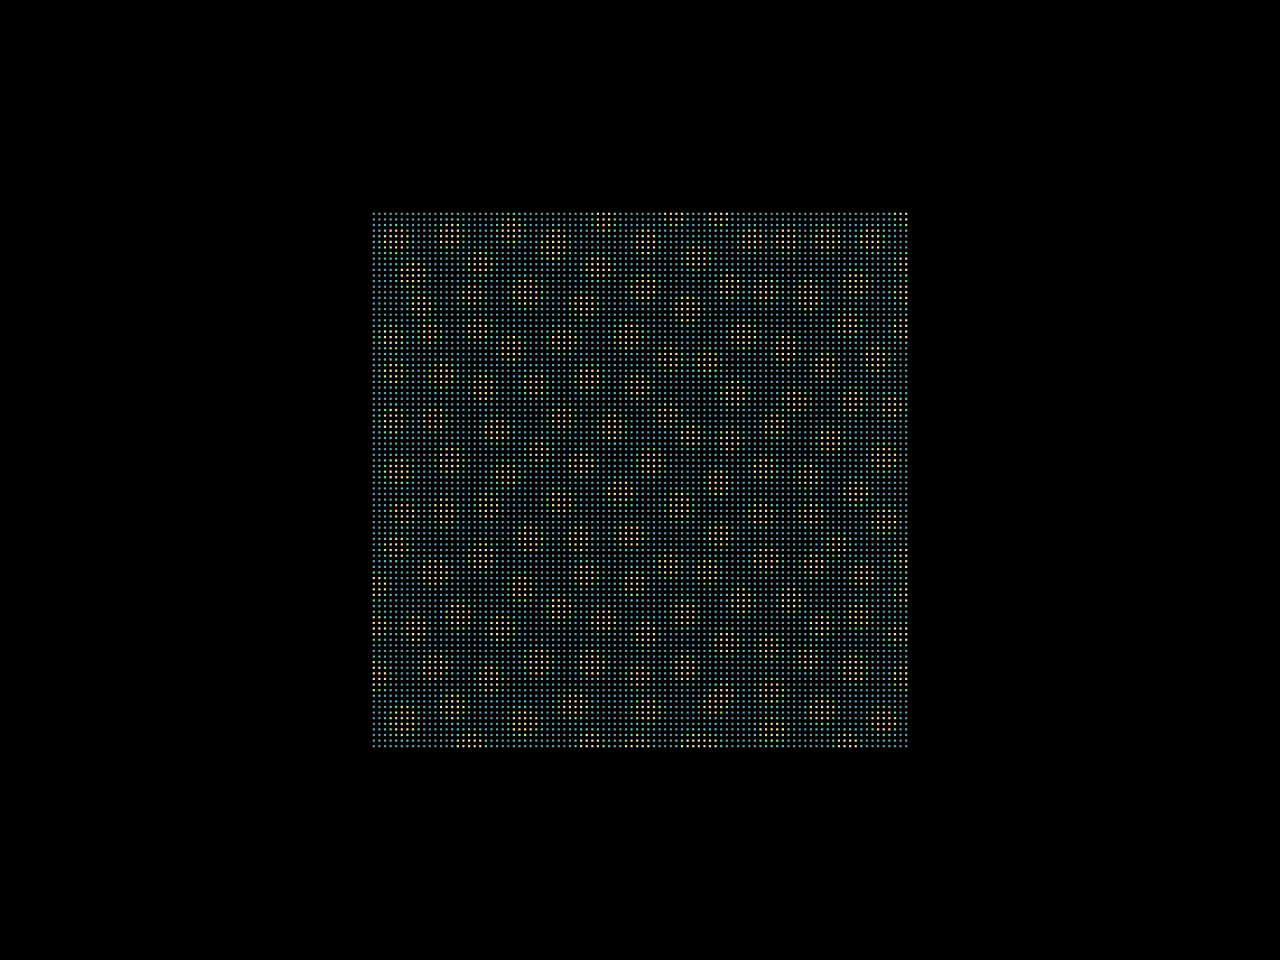
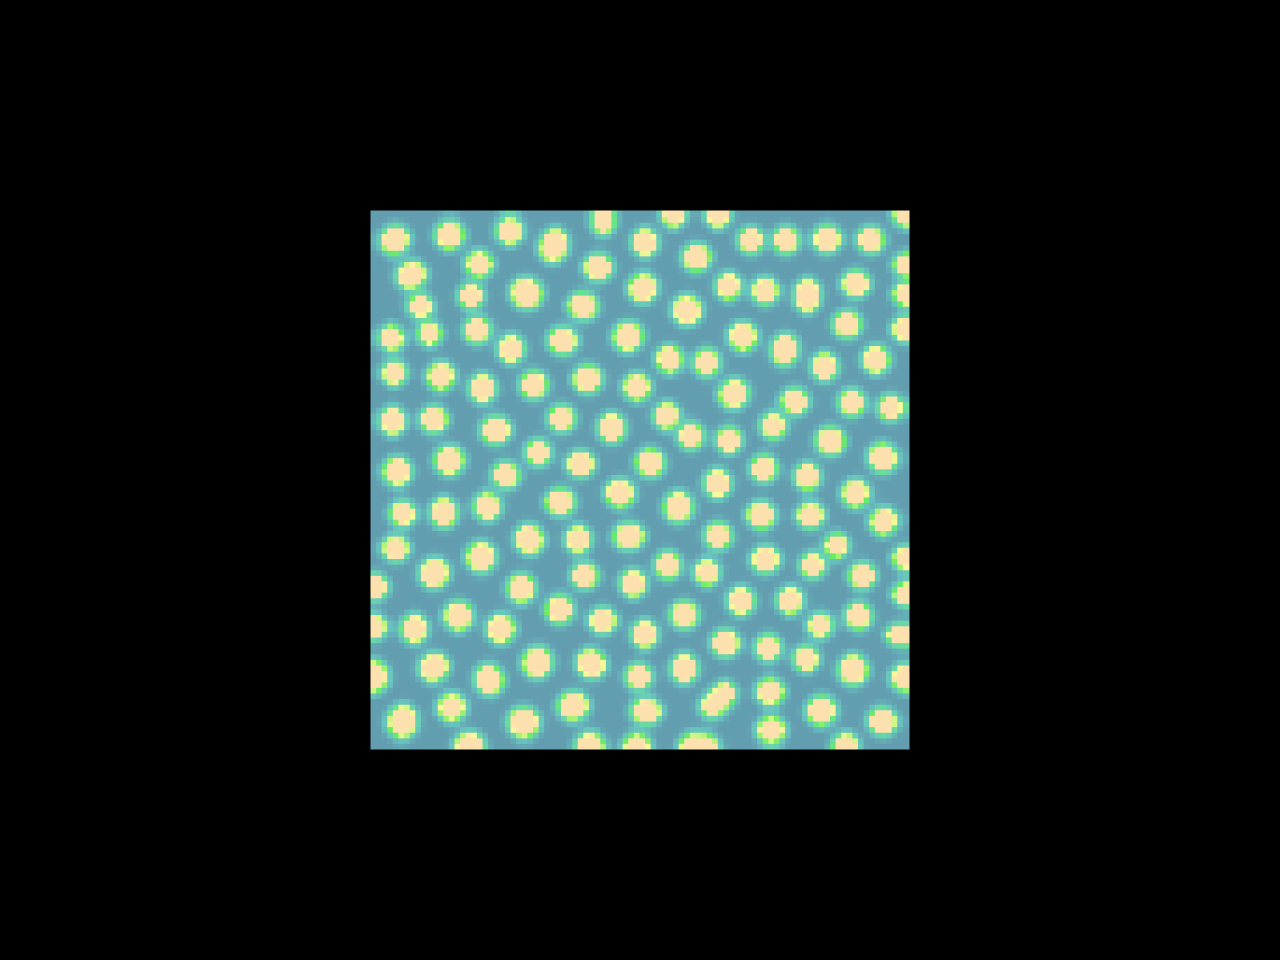
Fix brusselator RD: keep n on param tweak, denser field.

Changed region(s): [[0.2812, 0.2188, 0.7188, 0.7812]]

diff --git a/packages/frontend/src/pages/misc/brusselator_rd.tsx b/packages/frontend/src/pages/misc/brusselator_rd.tsx
@@ -39,7 +39,8 @@ const BrusselatorRd = () => {
 	const fieldRef = useRef<BrusselatorRdField | null>(null)
 	const stepsRef = useRef(0)
 	const lastManualRef = useRef<number | null>(null)
-	const paramKeyRef = useRef('')
+	const simKeyRef = useRef('')
+	const gridKeyRef = useRef(0)
 	const laidOutRef = useRef(false)
 	const wasCompleteRef = useRef(false)
 
@@ -89,11 +90,11 @@ const BrusselatorRd = () => {
 		[a, b, du, dv, dt],
 	)
 
+	/** Reseed only on grid change / force — tweaking a/b/Du/Dv/dt keeps n and the field. */
 	const ensureField = (force = false): BrusselatorRdField => {
-		const key = `${grid}|${a}|${b}|${du}|${dv}|${dt}`
-		if (force || !fieldRef.current || paramKeyRef.current !== key) {
+		if (force || !fieldRef.current || gridKeyRef.current !== grid) {
 			fieldRef.current = seedBrusselatorRd(grid, a, b)
-			paramKeyRef.current = key
+			gridKeyRef.current = grid
 			stepsRef.current = 0
 			laidOutRef.current = false
 			lastManualRef.current = null
@@ -129,12 +130,14 @@ const BrusselatorRd = () => {
 
 		if (manualProgress !== null) {
 			const want = Math.max(0, Math.min(target, Math.floor(manualProgress)))
-			if (lastManualRef.current !== want) {
+			const simKey = `${a}|${b}|${du}|${dv}|${dt}`
+			if (lastManualRef.current !== want || simKeyRef.current !== simKey) {
 				fieldRef.current = seedBrusselatorRd(grid, a, b)
 				const fresh = fieldRef.current
 				runBrusselatorRdSteps(fresh, params, want)
 				stepsRef.current = want
 				lastManualRef.current = want
+				simKeyRef.current = simKey
 				laidOutRef.current = false
 				fillGridPositions(positions, fresh.size, 1)
 				laidOutRef.current = true
@@ -167,11 +170,15 @@ const BrusselatorRd = () => {
 		return numParticles
 	}
 
+	// World-space points sized to cell pitch (slight overlap) so the field reads solid, not a dotted grid.
+	const cellPitch = 2 / Math.max(grid - 1, 1)
+	const pointSize = cellPitch * 1.55
+
 	return (
 		<Base<TData>
 			dimension={EDimensions.TWO_D}
 			numParticles={numParticles}
-			pointSize={Math.max(2.2, 210 / grid)}
+			pointSize={pointSize}
 			tick={tick}
 			cameraPosition={[0, 0, 2.35]}
 		/>
@@ -193,7 +200,8 @@ BrusselatorRd.getDescription = () => (
 		Defaults: <code>a = 1</code>, <code>b = 3</code>, <code>Du = 1</code>, <code>Dv = 8</code>,{' '}
 		<code>dt = 0.01</code>, grid <code>96</code>. Seed is the steady state{' '}
 		<InlineMath math="(a,\,b/a)" /> plus noise. Transport <code>n</code> scrubs step count from a
-		fresh seed; play keeps the field evolving.
+		fresh seed; play keeps the field evolving. Changing kinetics knobs keeps the current field and{' '}
+		<code>n</code>; changing <code>grid</code> reseeds.
 	</>
 )
 

diff --git a/packages/frontend/src/utils/brusselatorRd.ts b/packages/frontend/src/utils/brusselatorRd.ts
@@ -18,6 +18,8 @@ export type BrusselatorRdField = {
 	size: number
 	u: Float32Array
 	v: Float32Array
+	nextU: Float32Array
+	nextV: Float32Array
 }
 
 export function clampGridSize(n: number): number {
@@ -70,16 +72,23 @@ export function seedBrusselatorRd(
 	seed = 0xb50d50,
 ): BrusselatorRdField {
 	const n = clampGridSize(size)
-	const u = new Float32Array(n * n)
-	const v = new Float32Array(n * n)
+	const cells = n * n
+	const u = new Float32Array(cells)
+	const v = new Float32Array(cells)
 	const u0 = a
 	const v0 = b / Math.max(a, 1e-6)
 	const rand = mulberry32(seed >>> 0)
-	for (let i = 0; i < n * n; i++) {
+	for (let i = 0; i < cells; i++) {
 		u[i] = u0 + (rand() * 2 - 1) * noise
 		v[i] = v0 + (rand() * 2 - 1) * noise
 	}
-	return { size: n, u, v }
+	return {
+		size: n,
+		u,
+		v,
+		nextU: new Float32Array(cells),
+		nextV: new Float32Array(cells),
+	}
 }
 
 /**
@@ -88,14 +97,12 @@ export function seedBrusselatorRd(
  *   ∂v/∂t = Dv ∇²v + bu − u²v
  */
 export function stepBrusselatorRd(field: BrusselatorRdField, params: BrusselatorRdParams): void {
-	const { size, u, v } = field
+	const { size, u, v, nextU, nextV } = field
 	const a = params.a
 	const b = params.b
 	const du = Math.max(params.du, 0)
 	const dv = Math.max(params.dv, 0)
 	const dt = clampDt(params.dt)
-	const nextU = new Float32Array(size * size)
-	const nextV = new Float32Array(size * size)
 
 	for (let y = 0; y < size; y++) {
 		for (let x = 0; x < size; x++) {
